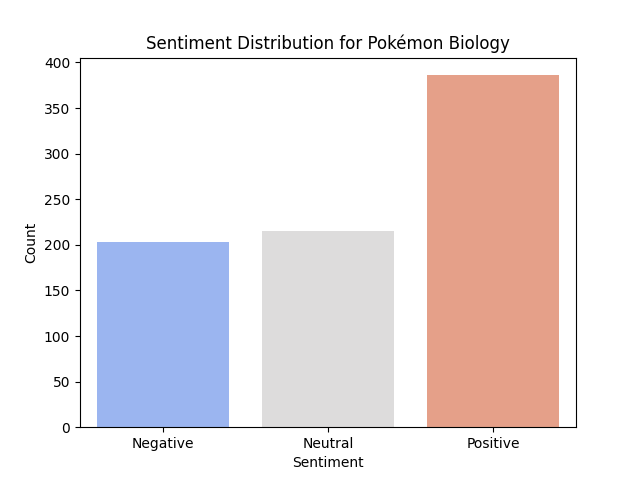
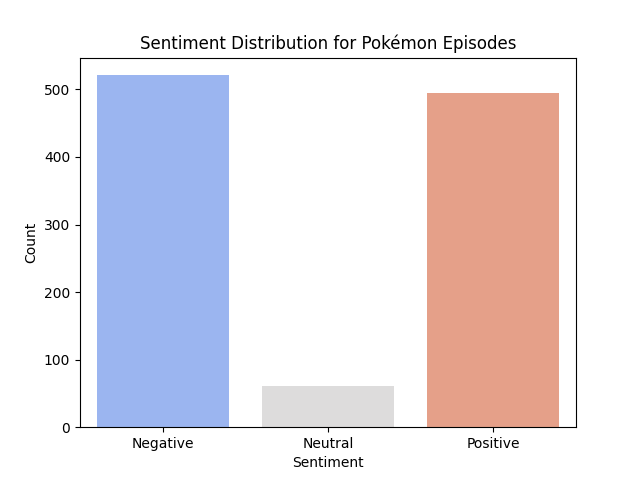
sentiment analysis for episodes

diff --git a/m1/plots.py b/m1/plots.py
@@ -6,17 +6,9 @@ import seaborn as sns
 import matplotlib.pyplot as plt
 import nltk
 nltk.download('vader_lexicon')
-nltk.download('punkt_tab')
-nltk.download('stopwords')
-nltk.download('wordnet')
 
 
 from nltk.sentiment.vader import SentimentIntensityAnalyzer
-from nltk.corpus import stopwords
-
-from nltk.tokenize import word_tokenize
-
-from nltk.stem import WordNetLemmatizer
 
 
 def plot_word_cloud(df, column, file):
@@ -160,7 +152,7 @@ def plot_sentiment(df, column, file):
     sns.barplot(x=sentiment_counts.index, y=sentiment_counts.values, palette='coolwarm')
     plt.xticks(ticks=[0, 1, 2], labels=[sentiment_labels[i] for i in range(3)])
     
-    plt.title('Sentiment Distribution for Pokémon Biology')
+    plt.title('Sentiment Distribution for Pokémon Episodes')
     plt.xlabel('Sentiment')
     plt.ylabel('Count')
 

diff --git a/m1/main.py b/m1/main.py
@@ -71,4 +71,4 @@ if args.correlation:
     character_correlation.get_correlations(character_df, episode_df, args.correlation)
 
 if args.sentiment_analysis:
-    plots.plot_sentiment(pokemon_df, "biology", args.sentiment_analysis)
+    plots.plot_sentiment(episode_df, "plot", args.sentiment_analysis)
